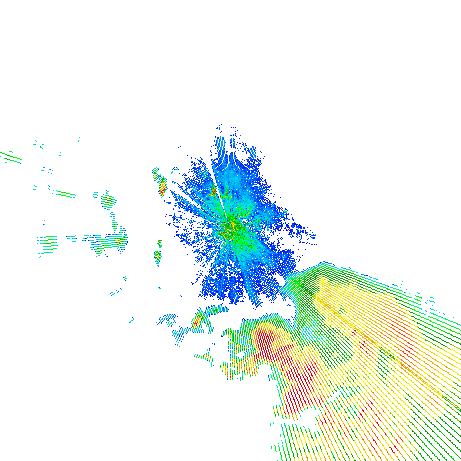
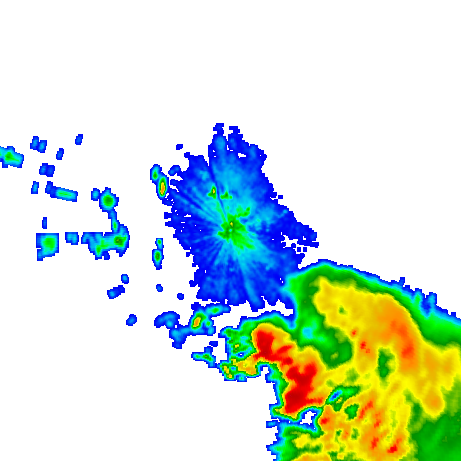
feat: grid

diff --git a/src/io/grid.rs b/src/io/grid.rs
@@ -29,4 +29,74 @@ pub fn grid(
 
     Some(grid)
 }
-// todo interp
+pub fn grid_interpolated(
+    data: Vec<Vec<f64>>,
+    azimuths: Vec<f64>,
+    drange: f64,
+    reso: f64,
+) -> Option<Vec<Vec<f64>>> {
+    let rows = ((drange / reso).ceil() as usize) + 1;
+    let cols = rows;
+    let center = ((rows - 1) as f64 / 2.0, (cols - 1) as f64 / 2.0);
+    let mut grid = vec![vec![f64::NAN; cols]; rows];
+    let mut count = vec![vec![0; cols]; rows];
+    for az_index in 0..azimuths.len() - 1 {
+        let theta1 = azimuths[az_index].to_radians();
+        let theta2 = azimuths[az_index + 1].to_radians();
+        for range_index in 0..data[az_index].len() - 1 {
+            let r1 = range_index as f64 * reso;
+            let r2 = (range_index + 1) as f64 * reso;
+            let corners = [
+                (r1 * theta1.cos(), r1 * theta1.sin()),
+                (r2 * theta1.cos(), r2 * theta1.sin()),
+                (r2 * theta2.cos(), r2 * theta2.sin()),
+                (r1 * theta2.cos(), r1 * theta2.sin()),
+            ];
+            let x_min = corners
+                .iter()
+                .map(|(x, _)| center.0 + x / reso)
+                .fold(f64::INFINITY, f64::min);
+            let x_max = corners
+                .iter()
+                .map(|(x, _)| center.0 + x / reso)
+                .fold(f64::NEG_INFINITY, f64::max);
+            let y_min = corners
+                .iter()
+                .map(|(_, y)| center.1 - y / reso)
+                .fold(f64::INFINITY, f64::min);
+            let y_max = corners
+                .iter()
+                .map(|(_, y)| center.1 - y / reso)
+                .fold(f64::NEG_INFINITY, f64::max);
+            for xi in x_min.floor() as isize..=x_max.ceil() as isize {
+                for yi in y_min.floor() as isize..=y_max.ceil() as isize {
+                    if xi >= 0 && xi < cols as isize && yi >= 0 && yi < rows as isize {
+                        let xi = xi as usize;
+                        let yi = yi as usize;
+                        let value = (data[az_index][range_index]
+                            + data[az_index + 1][range_index]
+                            + data[az_index][range_index + 1]
+                            + data[az_index + 1][range_index + 1])
+                            / 4.0;
+
+                        if grid[yi][xi].is_nan() {
+                            grid[yi][xi] = value;
+                        } else {
+                            grid[yi][xi] += value;
+                        }
+                        count[yi][xi] += 1;
+                    }
+                }
+            }
+        }
+    }
+    for i in 0..rows {
+        for j in 0..cols {
+            if count[i][j] > 0 {
+                grid[i][j] /= count[i][j] as f64;
+            }
+        }
+    }
+
+    Some(grid)
+}

diff --git a/src/main.rs b/src/main.rs
@@ -30,7 +30,7 @@ fn main() -> Result<(), Box<dyn std::error::Error>> {
     let data = &radardata.data[0][el];
     /*let (actuallon, actuallat) =
     get_coordinate(r, azimuth.to_vec(), elevation, centerlon, centerlat, true);*/
-    let grid_data: Vec<Vec<f64>> = io::grid::grid(data.to_vec(), azimuth.to_vec(), drange, reso).unwrap();
+    let grid_data: Vec<Vec<f64>> = io::grid::grid_interpolated(data.to_vec(), azimuth.to_vec(), drange, reso).unwrap();
     visualize::ppi::ppi(grid_data.to_vec(), drange as usize + 1, drange as usize + 1, fname);
     println!(
         "站点: {}/{} {}N, {}E/{}m",

diff --git a/compare.py b/compare.py
@@ -1,10 +1,13 @@
 import cProfile
 from cinrad.io import CinradReader, StandardData
+from cinrad.visualize import PPI
 def r():
     tilt = 0
     drange = 460
     dtype = 'REF'
     f = CinradReader('Z_RADR_I_Z9515_20160623043100_O_DOR_SA_CAP.bin') #New standard data
-    f.get_data(tilt, drange, dtype)
+    R = f.get_data(tilt, drange, dtype)
+    fig = PPI(R)
+    fig('radar_pycinrad.png')
 if __name__ == '__main__':
-   cProfile.run("r()")
+    cProfile.run("r()")
